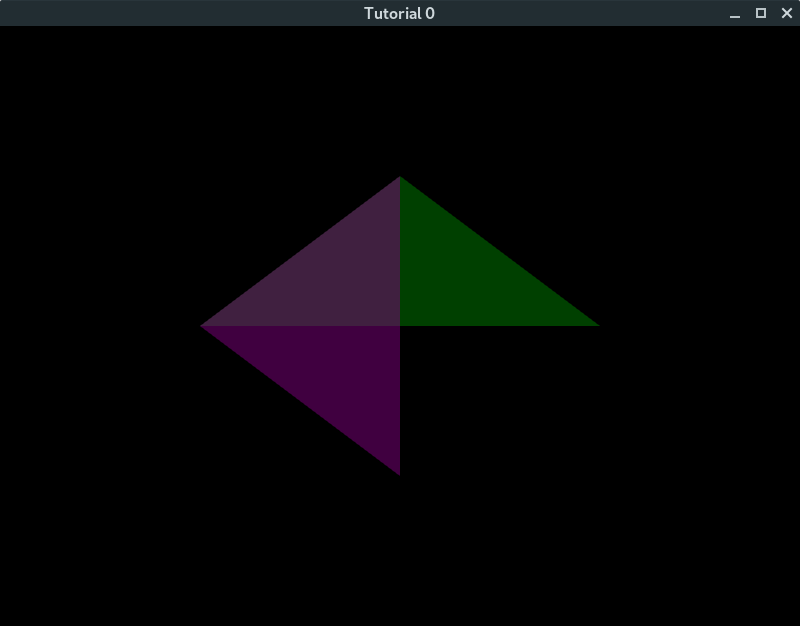
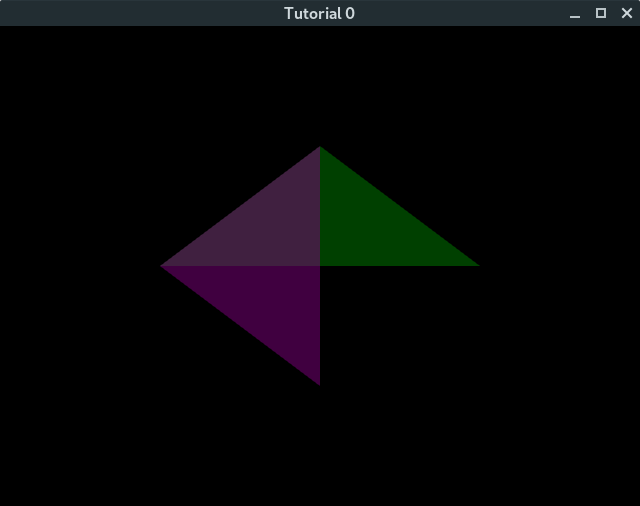
Resized tut0.c window to a smaller size of 640x480

diff --git a/src/tut0.c b/src/tut0.c
@@ -52,7 +52,7 @@ void glfw_stuff(void)
 
     glfwWindowHint(GLFW_DEPTH_BITS, 32);
 
-    window = glfwCreateWindow(800, 600, "Tutorial 0", NULL, NULL);
+    window = glfwCreateWindow(640, 480, "Tutorial 0", NULL, NULL);
 
     if (window == NULL) {
 	fprintf(stderr, "Failed to open GLFW window.\n");
